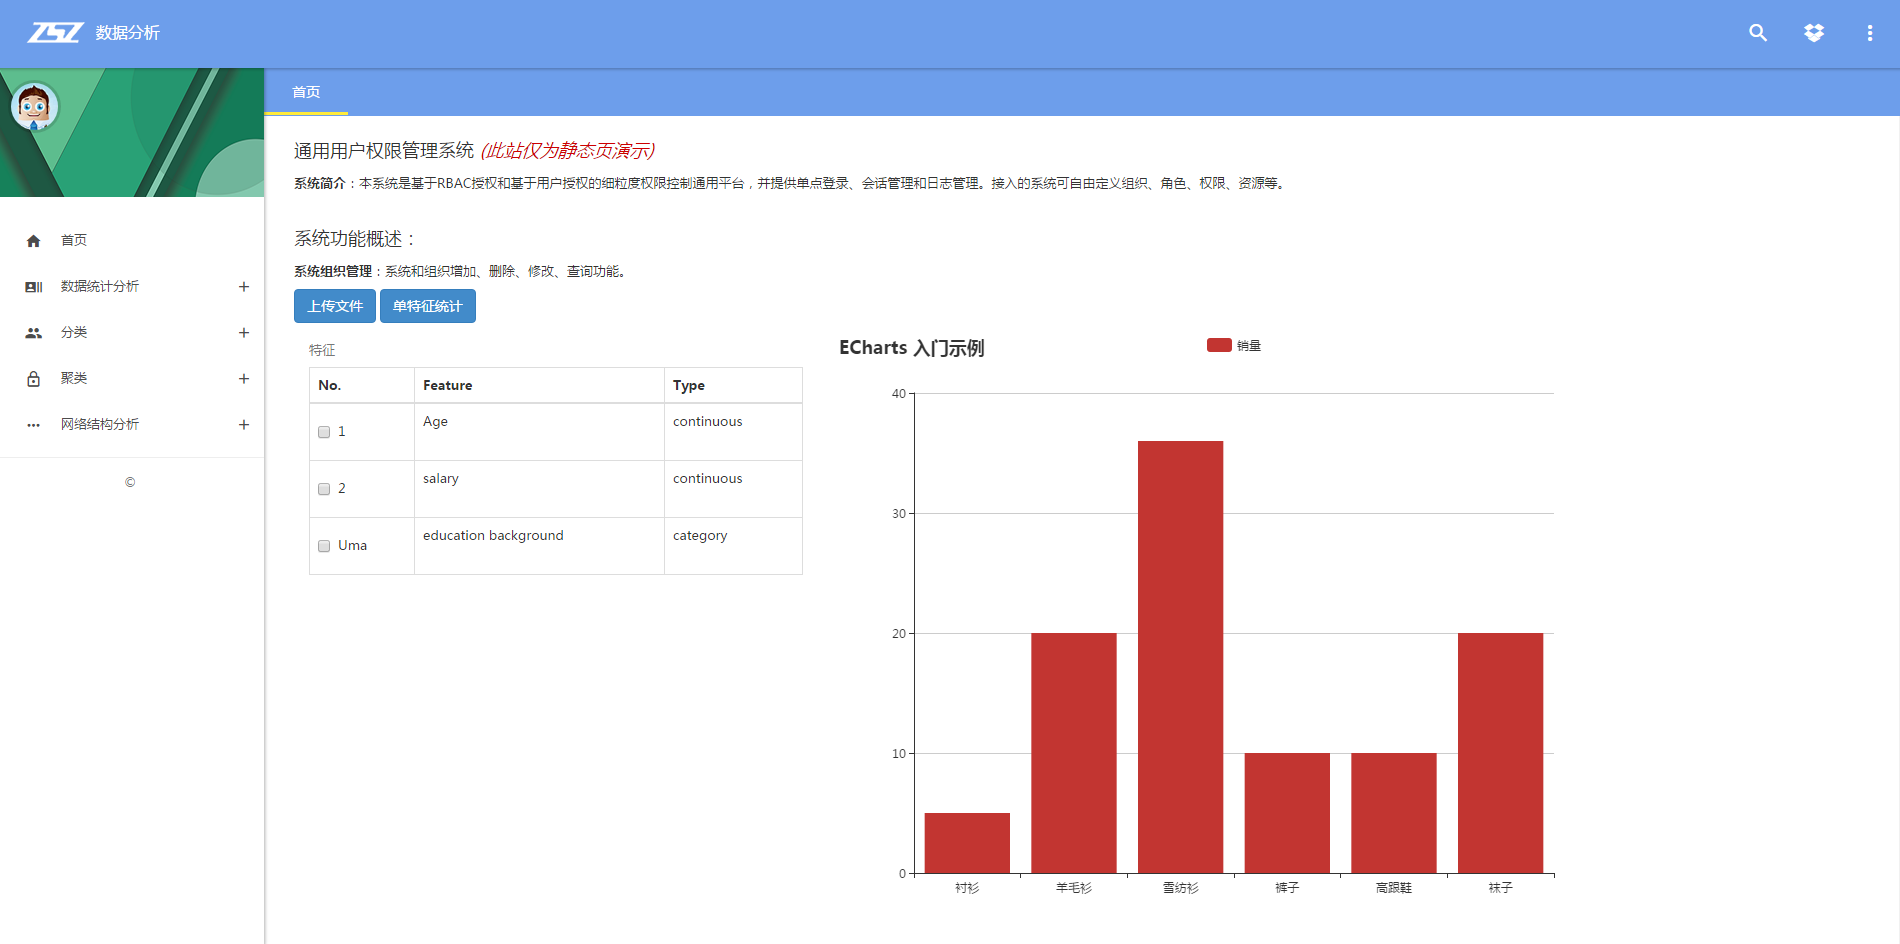
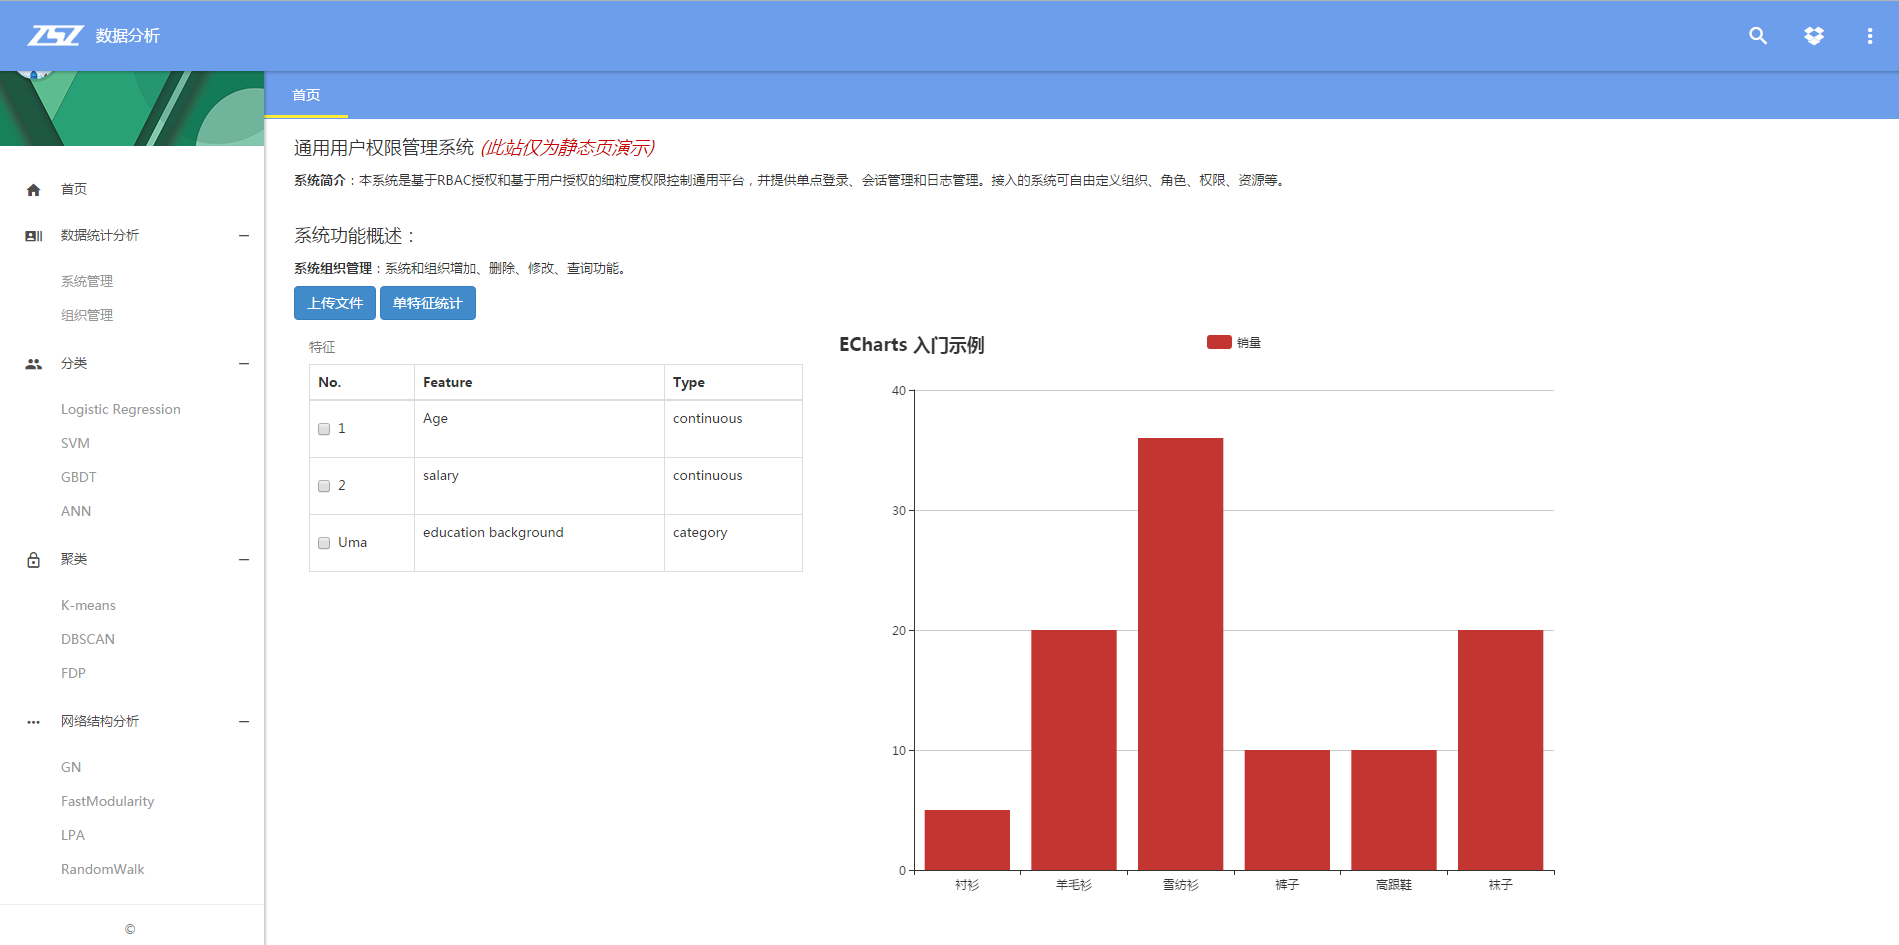
yemian

diff --git a/myapp/templates/base.html b/myapp/templates/base.html
@@ -158,23 +158,27 @@
 			<li class="sub-menu system_menus system_1 3">
 			<a class="waves-effect" href="javascript:;"><i class="zmdi zmdi-accounts"></i> 分类 </a>
 			<ul>
-				<li><a class="waves-effect" href="javascript:Tab.addTab('角色管理', '/manage/role/index');">角色管理</a></li>
-				<li><a class="waves-effect" href="javascript:Tab.addTab('用户管理', '/manage/user/index');">用户管理</a></li>
+				<li><a class="waves-effect" href="javascript:Tab.addTab('角色管理', '/manage/role/index');">Logistic Regression</a></li>
+				<li><a class="waves-effect" href="javascript:Tab.addTab('用户管理', '/manage/user/index');">SVM</a></li>
+				<li><a class="waves-effect" href="javascript:Tab.addTab('用户管理', '/manage/user/index');">GBDT</a></li>
+				<li><a class="waves-effect" href="javascript:Tab.addTab('用户管理', '/manage/user/index');">ANN</a></li>
 			</ul>
 			</li>
 			<li class="sub-menu system_menus system_1 6">
 			<a class="waves-effect" href="javascript:;"><i class="zmdi zmdi-lock-outline"></i> 聚类</a>
 			<ul>
-				<li><a class="waves-effect" href="javascript:Tab.addTab('权限管理', '/manage/permission/index');">权限管理</a></li>
+				<li><a class="waves-effect" href="javascript:Tab.addTab('权限管理', '/manage/permission/index');">K-means</a></li>
+				<li><a class="waves-effect" href="javascript:Tab.addTab('权限管理', '/manage/permission/index');">DBSCAN</a></li>
+				<li><a class="waves-effect" href="javascript:Tab.addTab('权限管理', '/manage/permission/index');">FDP</a></li>
 			</ul>
 			</li>
 			<li class="sub-menu system_menus system_1 7">
 			<a class="waves-effect" href="javascript:;"><i class="zmdi zmdi-more"></i> 网络结构分析</a>
 			<ul>
-				<li><a class="waves-effect" href="javascript:Tab.addTab('公共码表', '/manage/coder/index');">公共码表</a></li>
-				<li><a class="waves-effect" href="javascript:Tab.addTab('会话管理', '/manage/session/index');">会话管理</a></li>
-				<li><a class="waves-effect" href="javascript:Tab.addTab('日志记录', '/manage/log/index');">日志记录</a></li>
-				<li><a class="waves-effect" href="javascript:Tab.addTab('键值设置', '/manage/map/index');">键值设置</a></li>
+				<li><a class="waves-effect" href="javascript:Tab.addTab('公共码表', '/manage/coder/index');">GN</a></li>
+				<li><a class="waves-effect" href="javascript:Tab.addTab('会话管理', '/manage/session/index');">FastModularity</a></li>
+				<li><a class="waves-effect" href="javascript:Tab.addTab('日志记录', '/manage/log/index');">LPA</a></li>
+				<li><a class="waves-effect" href="javascript:Tab.addTab('键值设置', '/manage/map/index');">RandomWalk</a></li>
 			</ul>
 			</li>
 			<li class="sub-menu system_menus system_2 12" style="display:none;">
